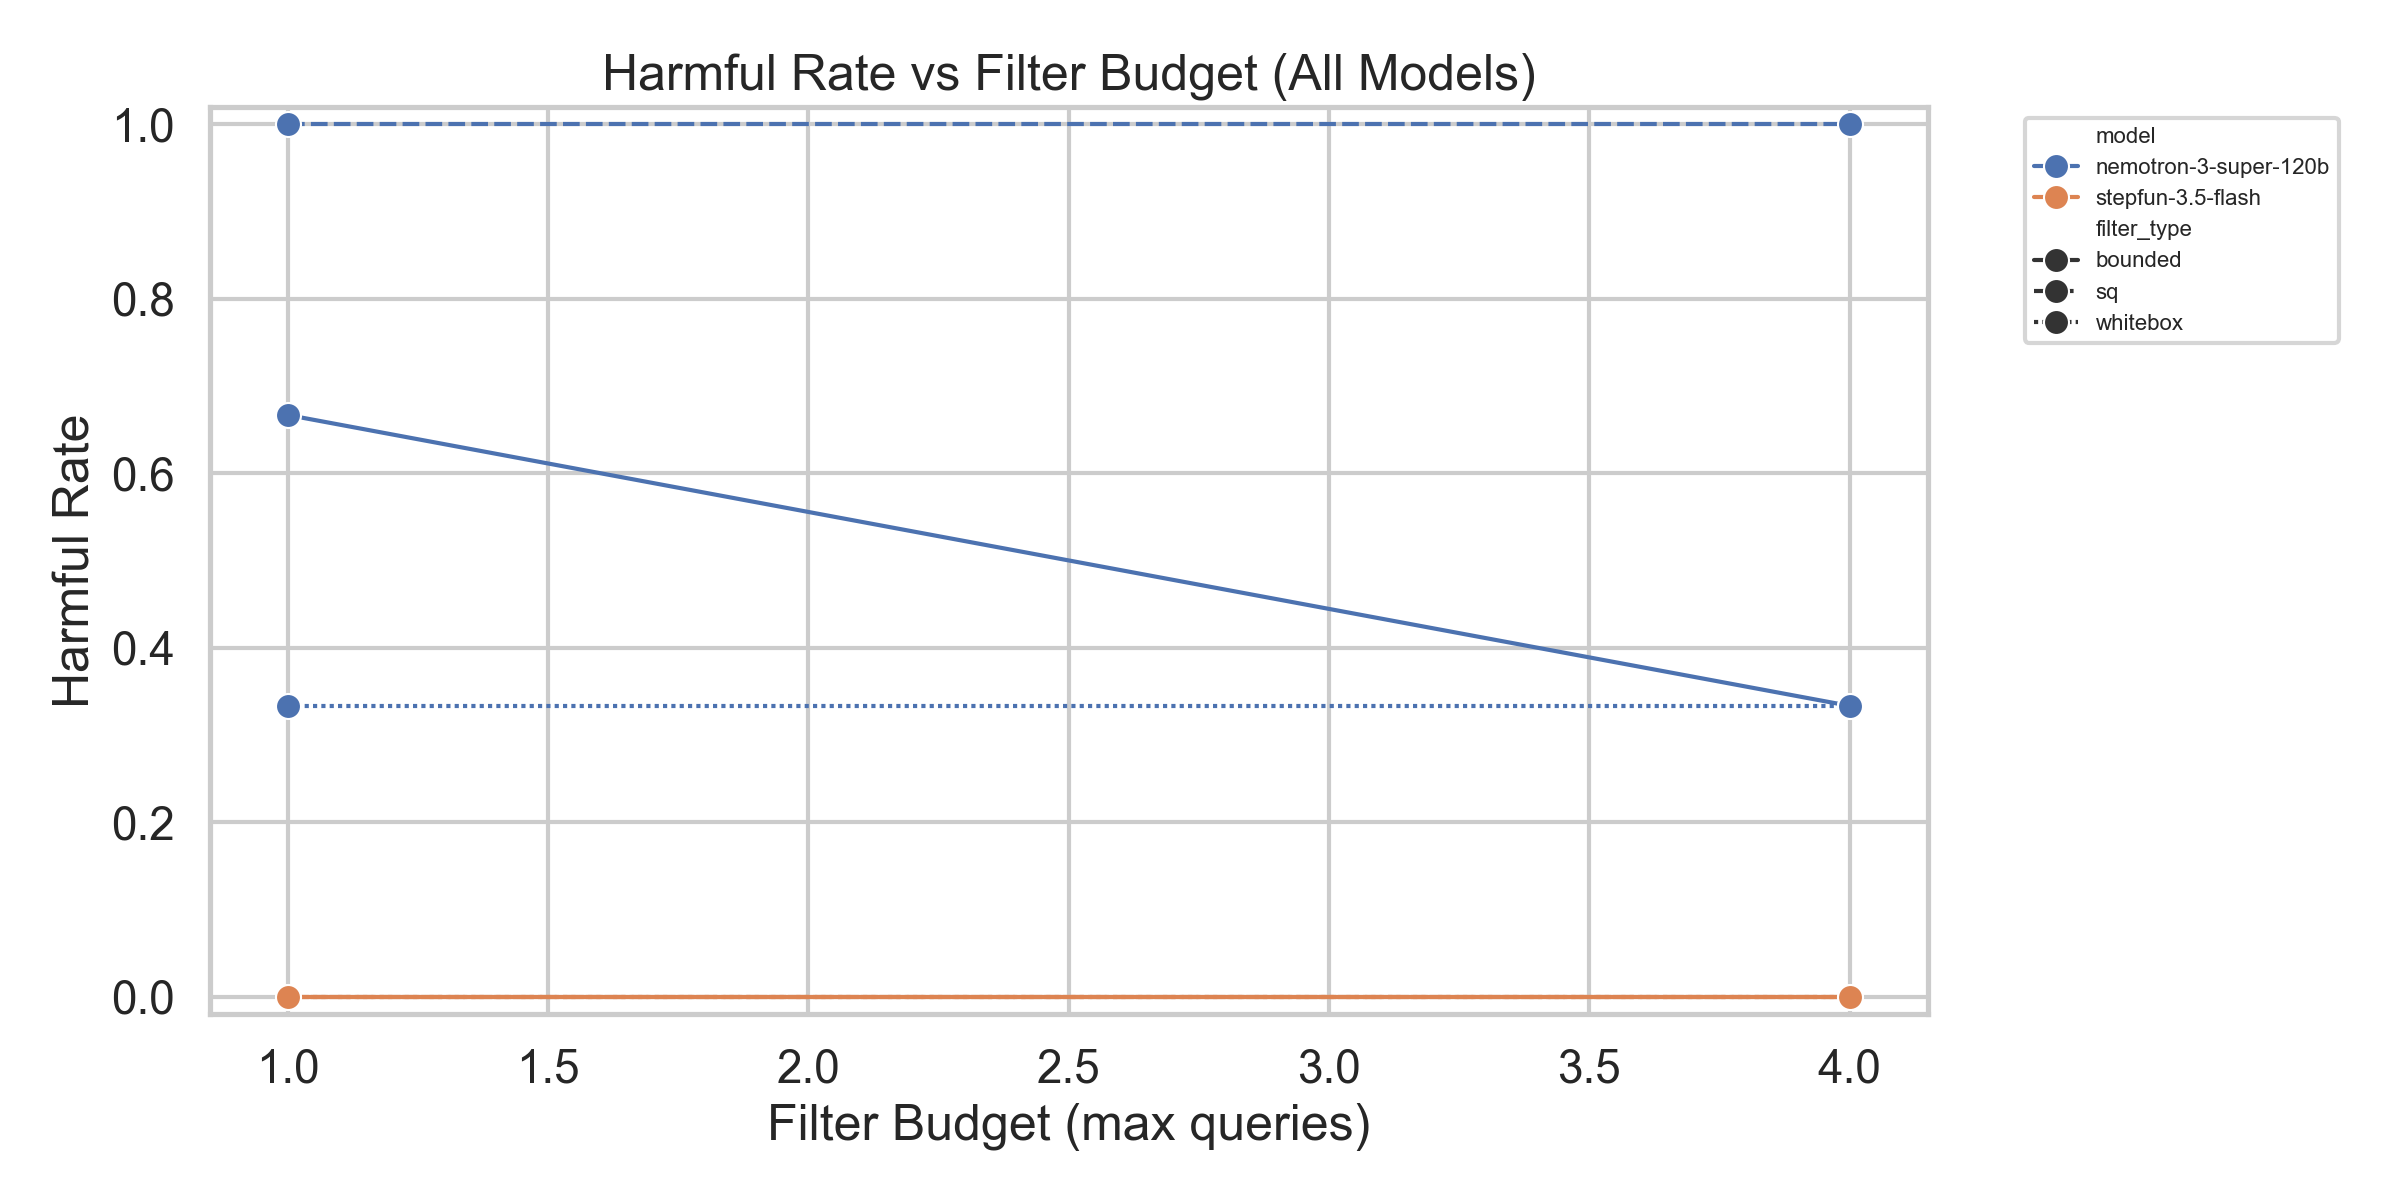
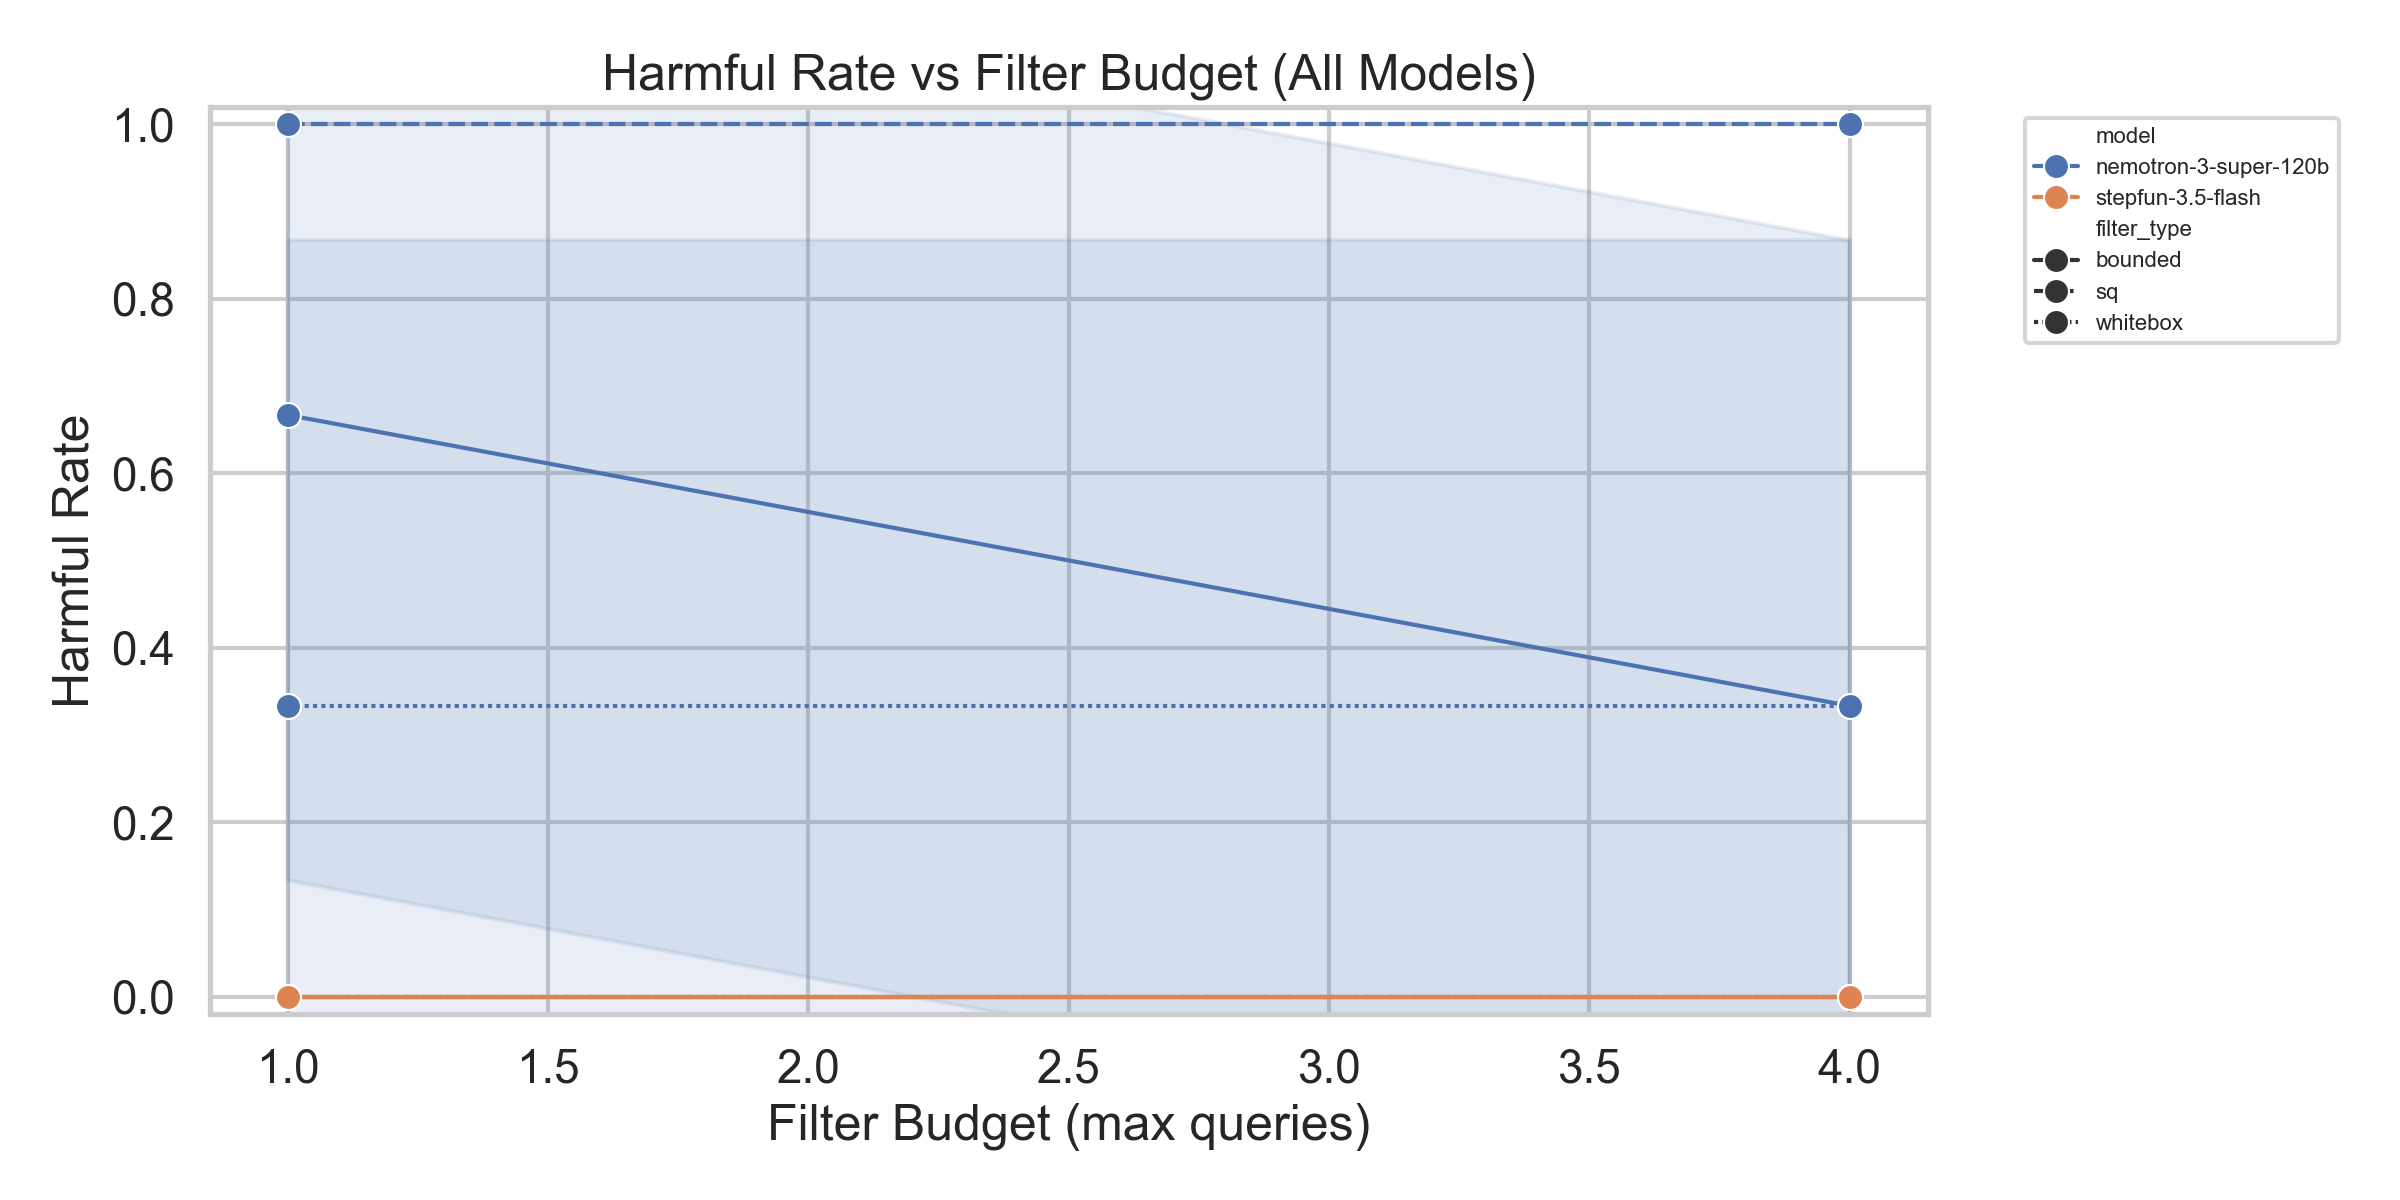
add confidence intervals for harmful-rate evaluation plots

diff --git a/experiments/plotting.py b/experiments/plotting.py
@@ -31,19 +31,40 @@ def generate_llm_plots(df: pd.DataFrame, out_dir: Path) -> None:
 
     summary = (
         ok.groupby(["model", "filter_type", "filter_budget"])["is_harmful"]
-        .mean()
+        .agg(["mean", "count", "std"])
         .reset_index()
     )
-    summary.columns = ["model", "filter_type", "filter_budget", "harmful_rate"]
+    summary["ci95"] = 1.96 * (
+        (
+            summary["mean"]
+            * (1 - summary["mean"])
+            / summary["count"]
+        ) ** 0.5
+    )
 
     # -- per-model harm vs budget ------------------------------------------------
     for model_name in summary["model"].unique():
         msub = summary[summary["model"] == model_name]
         plt.figure(figsize=(8, 5))
         sns.lineplot(
-            data=msub, x="filter_budget", y="harmful_rate",
+            data=msub, x="filter_budget", y="mean",
             hue="filter_type", marker="o", linewidth=2,
         )
+        ax = plt.gca()
+        # Add 95% CI shaded bands per filter type (match line colors when possible).
+        line_by_label = {line.get_label(): line for line in ax.lines}
+        for ft in msub["filter_type"].unique():
+            subset = msub[msub["filter_type"] == ft].sort_values("filter_budget")
+            color = None
+            if ft in line_by_label:
+                color = line_by_label[ft].get_color()
+            ax.fill_between(
+                subset["filter_budget"],
+                subset["mean"] - subset["ci95"],
+                subset["mean"] + subset["ci95"],
+                alpha=0.2,
+                color=color,
+            )
         plt.title(f"Harmful Rate vs Filter Budget: {model_name}")
         plt.xlabel("Filter Budget (max queries)")
         plt.ylabel("Harmful Rate")
@@ -56,10 +77,23 @@ def generate_llm_plots(df: pd.DataFrame, out_dir: Path) -> None:
 
     # -- all-models overlay ------------------------------------------------------
     plt.figure(figsize=(12, 6))
+    models = list(summary["model"].unique())
+    model_palette = dict(zip(models, sns.color_palette(n_colors=len(models))))
     sns.lineplot(
-        data=summary, x="filter_budget", y="harmful_rate",
+        data=summary, x="filter_budget", y="mean",
         hue="model", style="filter_type", marker="o", linewidth=1.5,
+        palette=model_palette,
     )
+    ax = plt.gca()
+    for (model_name, ft), subset in summary.groupby(["model", "filter_type"]):
+        subset = subset.sort_values("filter_budget")
+        ax.fill_between(
+            subset["filter_budget"],
+            subset["mean"] - subset["ci95"],
+            subset["mean"] + subset["ci95"],
+            alpha=0.12,
+            color=model_palette.get(model_name),
+        )
     plt.title("Harmful Rate vs Filter Budget (All Models)")
     plt.xlabel("Filter Budget (max queries)")
     plt.ylabel("Harmful Rate")
@@ -70,7 +104,7 @@ def generate_llm_plots(df: pd.DataFrame, out_dir: Path) -> None:
     plt.close()
 
     # -- harm floor by model -----------------------------------------------------
-    floor = summary.groupby("model")["harmful_rate"].min().reset_index()
+    floor = summary.groupby("model")["mean"].min().reset_index()
     floor.columns = ["model", "harm_floor"]
     plt.figure(figsize=(10, 5))
     sns.barplot(data=floor, x="model", y="harm_floor", hue="model", palette="Reds_d", legend=False)

diff --git a/CONFIDENCE_INTERVAL_INTEGRATION.md b/CONFIDENCE_INTERVAL_INTEGRATION.md
@@ -1,0 +1,309 @@
+# Confidence Interval Integration for NeurIPS Statistical Rigor
+
+## Objective
+
+Add statistical confidence intervals to the existing harmful-rate evaluation plots to improve empirical rigor and reduce reviewer criticism that the results are merely illustrative or anecdotal.
+
+This change does NOT require:
+- new experiments
+- new datasets
+- rerunning models
+- modifying filters
+- changing repository architecture
+
+The goal is purely to improve statistical presentation quality for NeurIPS reviewers.
+
+---
+
+# What “Anecdotal” Means
+
+Anecdotal results are results that appear based on isolated observations rather than statistically supported evidence.
+
+Right now the plots effectively say:
+
+```text
+harmful_rate = 0.23
+```
+
+But reviewers do not know:
+- whether this number is stable
+- whether it changes significantly under different prompt samples
+- or whether the curve is noisy
+
+This makes the plots potentially look:
+- illustrative
+- heuristic
+- observational
+
+rather than statistically rigorous.
+
+---
+
+# What Confidence Intervals Do
+
+Confidence intervals estimate uncertainty around the measured harmful rate.
+
+Instead of saying:
+
+```text
+harmful_rate = 0.23
+```
+
+the plot now visually communicates:
+
+```text
+harmful_rate ≈ 0.23 ± uncertainty
+```
+
+This produces:
+- a solid mean curve
+- plus a shaded confidence band around the curve
+
+Current visual:
+
+```text
+──────
+```
+
+Desired visual:
+
+```text
+░░────░░
+```
+
+Where:
+- the solid line is the average harmful rate
+- the shaded region is the 95% confidence interval
+
+Small confidence bands:
+- imply low variance
+- imply stable results
+- increase reviewer trust
+
+Large confidence bands:
+- imply noisier estimates
+- imply higher uncertainty
+
+---
+
+# Why This Matters for NeurIPS
+
+Without confidence intervals:
+- plots can look anecdotal
+- reviewers may view them as unstable empirical observations
+
+With confidence intervals:
+- results appear statistically evaluated
+- plots resemble standard NeurIPS empirical presentation quality
+- reviewer confidence improves substantially
+
+This is an extremely high ROI improvement because:
+- implementation is fast
+- no reruns are needed
+- no infrastructure changes are needed
+
+---
+
+# Repository Scope
+
+Modify ONLY:
+
+```plaintext
+experiments/plotting.py
+```
+
+No changes are required to:
+- filters
+- evaluation pipelines
+- OpenRouter integration
+- datasets
+- CSV logging
+- model infrastructure
+
+---
+
+# Statistical Method
+
+For each group:
+
+```python
+(model, filter_type, filter_budget)
+```
+
+compute:
+- mean harmful rate
+- sample count
+- approximate 95% confidence interval
+
+The harmfulness labels already exist in:
+
+```python
+is_harmful
+```
+
+inside:
+
+```plaintext
+llm_metrics.csv
+```
+
+so no new data generation is needed.
+
+---
+
+# Exact Implementation
+
+## Step 1 — Replace Existing Summary Block
+
+Inside:
+
+```python
+generate_llm_plots()
+```
+
+after:
+
+```python
+ok = df[df["status"] == "ok"].copy()
+```
+
+REPLACE the current summary block:
+
+```python
+summary = (
+    ok.groupby(["model", "filter_type", "filter_budget"])["is_harmful"]
+    .mean()
+    .reset_index()
+)
+summary.columns = ["model", "filter_type", "filter_budget", "harmful_rate"]
+```
+
+WITH:
+
+```python
+summary = (
+    ok.groupby(["model", "filter_type", "filter_budget"])["is_harmful"]
+    .agg(["mean", "count", "std"])
+    .reset_index()
+)
+
+summary["ci95"] = 1.96 * (
+    (
+        summary["mean"]
+        * (1 - summary["mean"])
+        / summary["count"]
+    ) ** 0.5
+)
+```
+
+This computes:
+- average harmful rate
+- sample count
+- standard deviation
+- approximate 95% confidence interval
+
+---
+
+# Step 2 — Update Plotting Variables
+
+Replace all references to:
+
+```python
+harmful_rate
+```
+
+with:
+
+```python
+mean
+```
+
+inside the plotting calls.
+
+---
+
+# Step 3 — Add Confidence Bands to Per-Model Curves
+
+Inside:
+
+```python
+for model_name in summary["model"].unique():
+```
+
+after the existing `sns.lineplot(...)` call, add:
+
+```python
+for ft in msub["filter_type"].unique():
+    subset = msub[msub["filter_type"] == ft]
+
+    plt.fill_between(
+        subset["filter_budget"],
+        subset["mean"] - subset["ci95"],
+        subset["mean"] + subset["ci95"],
+        alpha=0.2,
+    )
+```
+
+This creates the shaded uncertainty region around each line.
+
+---
+
+# Step 4 — Add Confidence Bands to All-Models Overlay
+
+After the global `sns.lineplot(...)` call for:
+
+```python
+harm_vs_budget_all_models.png
+```
+
+add:
+
+```python
+for (model_name, ft), subset in summary.groupby(["model", "filter_type"]):
+    plt.fill_between(
+        subset["filter_budget"],
+        subset["mean"] - subset["ci95"],
+        subset["mean"] + subset["ci95"],
+        alpha=0.12,
+    )
+```
+
+---
+
+# Expected Output Change
+
+The updated plots will now show:
+- mean harmful-rate curves
+- uncertainty bands
+- statistically grounded empirical variation
+
+This significantly improves:
+- reviewer trust
+- empirical credibility
+- presentation quality
+- perceived rigor
+
+without changing the underlying experiments.
+
+---
+
+# Important Constraints
+
+DO NOT:
+- rerun evaluations
+- modify datasets
+- change CSV schemas
+- rewrite plotting infrastructure
+- alter filters
+- add external statistical dependencies
+
+Only improve statistical presentation.
+
+---
+
+# Final Deliverable
+
+Updated plots containing:
+- 95% confidence bands
+- statistically grounded harmful-rate visualization
+- stronger NeurIPS-style empirical presentation quality
